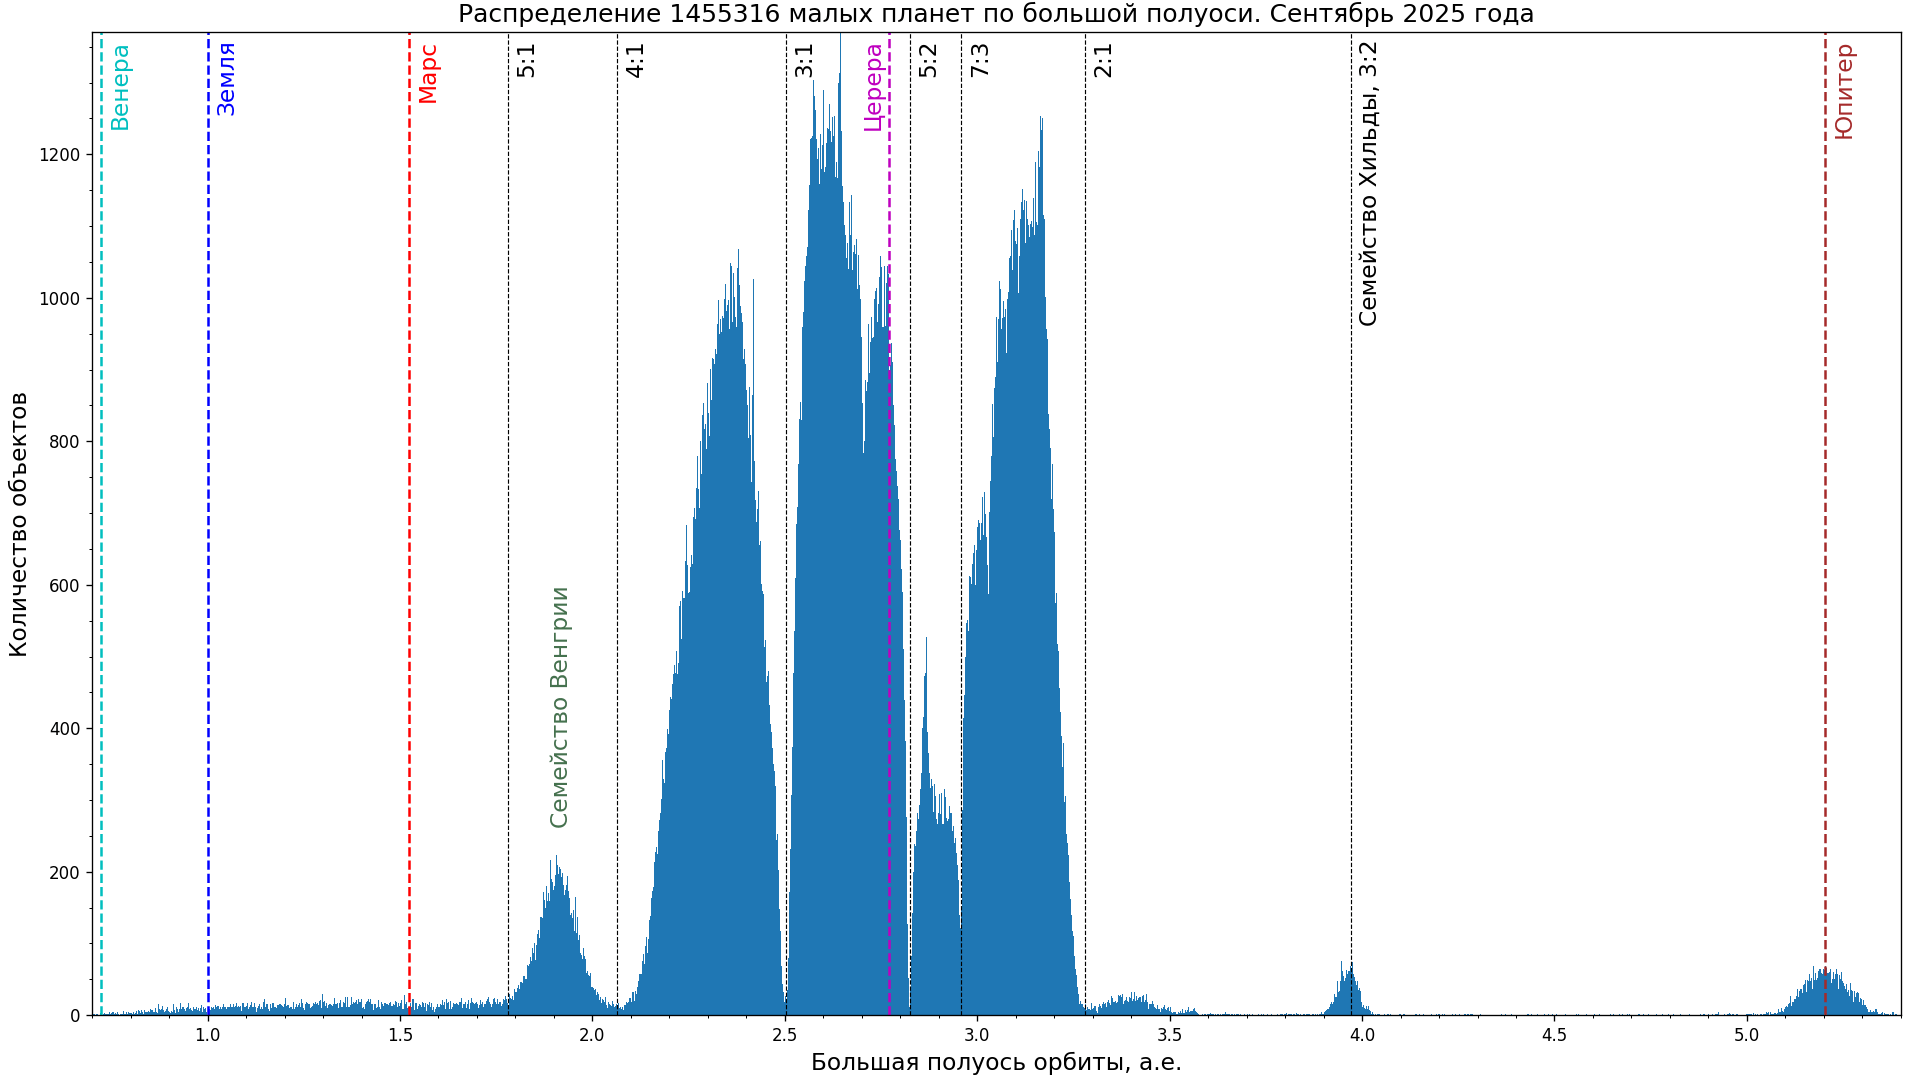
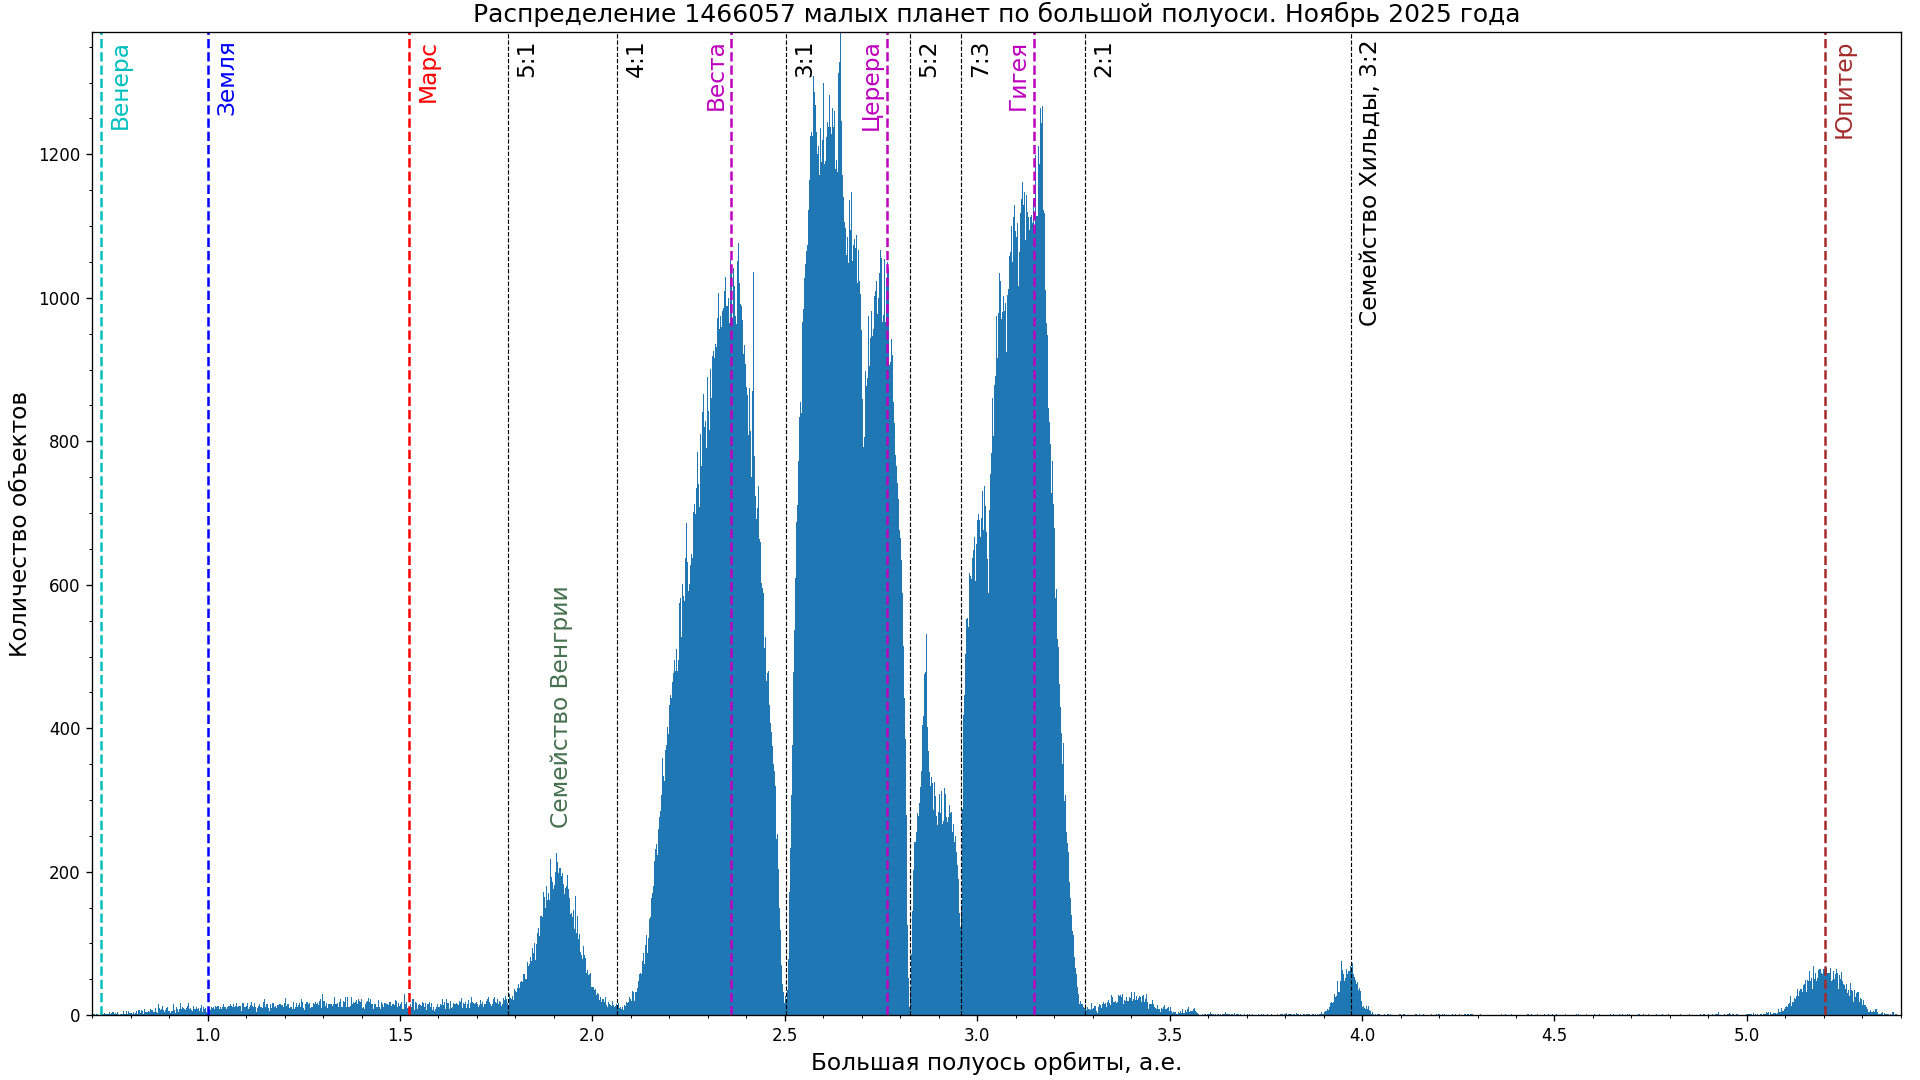
update plots

Changed region(s): [[0.25, 0.0, 0.8125, 0.1222]]

diff --git a/src/astrodata/solarsystem/README-ru.md b/src/astrodata/solarsystem/README-ru.md
@@ -28,8 +28,8 @@
 Для получения параметров ненумерованных транснептуновых объектов см. [поиск в базе данных MPC](https://minorplanetcenter.net/db_search)  
 Код: см. [MPC Web Service, mpc-fetch.py](https://minorplanetcenter.net/web_service/)
 * Распределение малых планет по характеристической скорости орбитального маневра (Δv) и времени перелета
-![Распределение малых планет по характеристической скорости орбитального маневра (Δv) в диапазоне значений большой полуоси между 0.6 и 2.2 а.е.](../../../plots/solarsystem/mpcprb-deltav-a0.6-2.2-ru.png "Распределение малых планет по характеристической скорости орбитального маневра (Δv) в диапазоне значений большой полуоси между 0.6 и 2.2 а.е. с отмеченными целями АМС")
-![Распределение малых планет по времени перелета в диапазоне значений большой полуоси между 0.6 и 2.2 а.е.](../../../plots/solarsystem/mpcprb-tt-a0.6-2.2-ru.png "Распределение малых планет по времени перелета в диапазоне значений большой полуоси между 0.6 и 2.2 а.е. с отмеченными целями АМС")  
+![Распределение малых планет по характеристической скорости орбитального маневра (Δv) в диапазоне значений большой полуоси между 0.6 и 2.9 а.е.](../../../plots/solarsystem/mpcprb-deltav-a0.6-2.9-ru.png "Распределение малых планет по характеристической скорости орбитального маневра (Δv) в диапазоне значений большой полуоси между 0.6 и 2.9 а.е. с отмеченными целями АМС")
+![Распределение малых планет по времени перелета в диапазоне значений большой полуоси между 0.6 и 2.9 а.е.](../../../plots/solarsystem/mpcprb-tt-a0.6-2.9-ru.png "Распределение малых планет по времени перелета в диапазоне значений большой полуоси между 0.6 и 2.9 а.е. с отмеченными целями АМС")  
 См. статью [Ultra-low delta-v objects and the human exploration of asteroids (2011)](https://ui.adsabs.harvard.edu/abs/2011P%26SS...59.1408E/abstract).  
 Код адаптирован из статьи [A Delta-V map of the known Main Belt Asteroids (2018)](https://ui.adsabs.harvard.edu/abs/2018AcAau.146...73T/abstract),
 [pdf](https://planet4589.org/jcm/pubs/sci/papers/2018/Taylor18.pdf), см. файл [Main_Belt_Code_V3.py file from Dataverse](https://dataverse.harvard.edu/dataverse/ElvisMBA),

diff --git a/plots/solarsystem/README-ru.md b/plots/solarsystem/README-ru.md
@@ -29,8 +29,8 @@
 Для получения параметров ненумерованных транснептуновых объектов см. [поиск в базе данных MPC](https://minorplanetcenter.net/db_search)  
 Код: см. [MPC Web Service, mpc-fetch.py](https://minorplanetcenter.net/web_service/)
 * Распределение малых планет по характеристической скорости орбитального маневра (Δv) и времени перелета
-![Распределение малых планет по характеристической скорости орбитального маневра (Δv) в диапазоне значений большой полуоси между 0.6 и 2.2 а.е.](./mpcprb-deltav-a0.6-2.2-ru.png "Распределение малых планет по характеристической скорости орбитального маневра (Δv) в диапазоне значений большой полуоси между 0.6 и 2.2 а.е. с отмеченными целями АМС")
-![Распределение малых планет по времени перелета в диапазоне значений большой полуоси между 0.6 и 2.2 а.е.](./mpcprb-tt-a0.6-2.2-ru.png "Распределение малых планет по времени перелета в диапазоне значений большой полуоси между 0.6 и 2.2 а.е. с отмеченными целями АМС")  
+![Распределение малых планет по характеристической скорости орбитального маневра (Δv) в диапазоне значений большой полуоси между 0.6 и 2.9 а.е.](./mpcprb-deltav-a0.6-2.9-ru.png "Распределение малых планет по характеристической скорости орбитального маневра (Δv) в диапазоне значений большой полуоси между 0.6 и 2.9 а.е. с отмеченными целями АМС")
+![Распределение малых планет по времени перелета в диапазоне значений большой полуоси между 0.6 и 2.9 а.е.](./mpcprb-tt-a0.6-2.9-ru.png "Распределение малых планет по времени перелета в диапазоне значений большой полуоси между 0.6 и 2.9 а.е. с отмеченными целями АМС")  
 См. статью [Ultra-low delta-v objects and the human exploration of asteroids (2011)](https://ui.adsabs.harvard.edu/abs/2011P%26SS...59.1408E/abstract).  
 Код адаптирован из статьи [A Delta-V map of the known Main Belt Asteroids (2018)](https://ui.adsabs.harvard.edu/abs/2018AcAau.146...73T/abstract),
 [pdf](https://planet4589.org/jcm/pubs/sci/papers/2018/Taylor18.pdf), см. файл [Main_Belt_Code_V3.py file from Dataverse](https://dataverse.harvard.edu/dataverse/ElvisMBA),

diff --git a/src/astrodata/solarsystem/README.md b/src/astrodata/solarsystem/README.md
@@ -28,8 +28,8 @@ Data: [MPC Web Service output as JSON file](../../../data/solarsystem/tno-larges
 For parameters of unnumbered trans-Neptunian objects see [MPC Database Search](https://minorplanetcenter.net/db_search)  
 Code: see [MPC Web Service, mpc-fetch.py](https://minorplanetcenter.net/web_service/)
 * Distribution of minor planets by delta-v and travel time
-![Distribution of minor planets by delta-v in semimajor axis range between 0.6 and 2.2](../../../plots/solarsystem/mpcprb-deltav-a0.6-2.2-ru.png "Distribution of minor planets by delta-v in semimajor axis range between 0.6 and 2.2 with marked spacecraft targets")
-![Distribution of minor planets by travel (transit) time in semimajor axis range between 0.6 and 2.2](../../../plots/solarsystem/mpcprb-tt-a0.6-2.2-ru.png "Distribution of minor planets by travel (transit) time in semimajor axis range between 0.6 and 2.2 with marked spacecraft targets")  
+![Distribution of minor planets by delta-v in semimajor axis range between 0.6 and 2.9](../../../plots/solarsystem/mpcprb-deltav-a0.6-2.9-ru.png "Distribution of minor planets by delta-v in semimajor axis range between 0.6 and 2.9 with marked spacecraft targets")
+![Distribution of minor planets by travel (transit) time in semimajor axis range between 0.6 and 2.9](../../../plots/solarsystem/mpcprb-tt-a0.6-2.9-ru.png "Distribution of minor planets by travel (transit) time in semimajor axis range between 0.6 and 2.9 with marked spacecraft targets")  
 See [Ultra-low delta-v objects and the human exploration of asteroids (2011)](https://ui.adsabs.harvard.edu/abs/2011P%26SS...59.1408E/abstract).  
 Code adapted from [A Delta-V map of the known Main Belt Asteroids (2018)](https://ui.adsabs.harvard.edu/abs/2018AcAau.146...73T/abstract),
 [pdf](https://planet4589.org/jcm/pubs/sci/papers/2018/Taylor18.pdf), see [Main_Belt_Code_V3.py file from Dataverse](https://dataverse.harvard.edu/dataverse/ElvisMBA),

diff --git a/plots/solarsystem/README.md b/plots/solarsystem/README.md
@@ -29,8 +29,8 @@ Data: [MPC Web Service output as JSON file](../../data/solarsystem/tno-largest.j
 For parameters of unnumbered trans-Neptunian objects see [MPC Database Search](https://minorplanetcenter.net/db_search)  
 Code: see [MPC Web Service, mpc-fetch.py](https://minorplanetcenter.net/web_service/)
 * Distribution of minor planets by delta-v and travel time
-![Distribution of minor planets by delta-v in semimajor axis range between 0.6 and 2.2](./mpcprb-deltav-a0.6-2.2-ru.png "Distribution of minor planets by delta-v in semimajor axis range between 0.6 and 2.2 with marked spacecraft targets")
-![Distribution of minor planets by travel (transit) time in semimajor axis range between 0.6 and 2.2](./mpcprb-tt-a0.6-2.2-ru.png "Distribution of minor planets by travel (transit) time in semimajor axis range between 0.6 and 2.2 with marked spacecraft targets")  
+![Distribution of minor planets by delta-v in semimajor axis range between 0.6 and 2.9](./mpcprb-deltav-a0.6-2.9-ru.png "Distribution of minor planets by delta-v in semimajor axis range between 0.6 and 2.9 with marked spacecraft targets")
+![Distribution of minor planets by travel (transit) time in semimajor axis range between 0.6 and 2.9](./mpcprb-tt-a0.6-2.9-ru.png "Distribution of minor planets by travel (transit) time in semimajor axis range between 0.6 and 2.9 with marked spacecraft targets")  
 See [Ultra-low delta-v objects and the human exploration of asteroids (2011)](https://ui.adsabs.harvard.edu/abs/2011P%26SS...59.1408E/abstract).  
 Code adapted from [A Delta-V map of the known Main Belt Asteroids (2018)](https://ui.adsabs.harvard.edu/abs/2018AcAau.146...73T/abstract),
 [pdf](https://planet4589.org/jcm/pubs/sci/papers/2018/Taylor18.pdf), see [Main_Belt_Code_V3.py file from Dataverse](https://dataverse.harvard.edu/dataverse/ElvisMBA),
